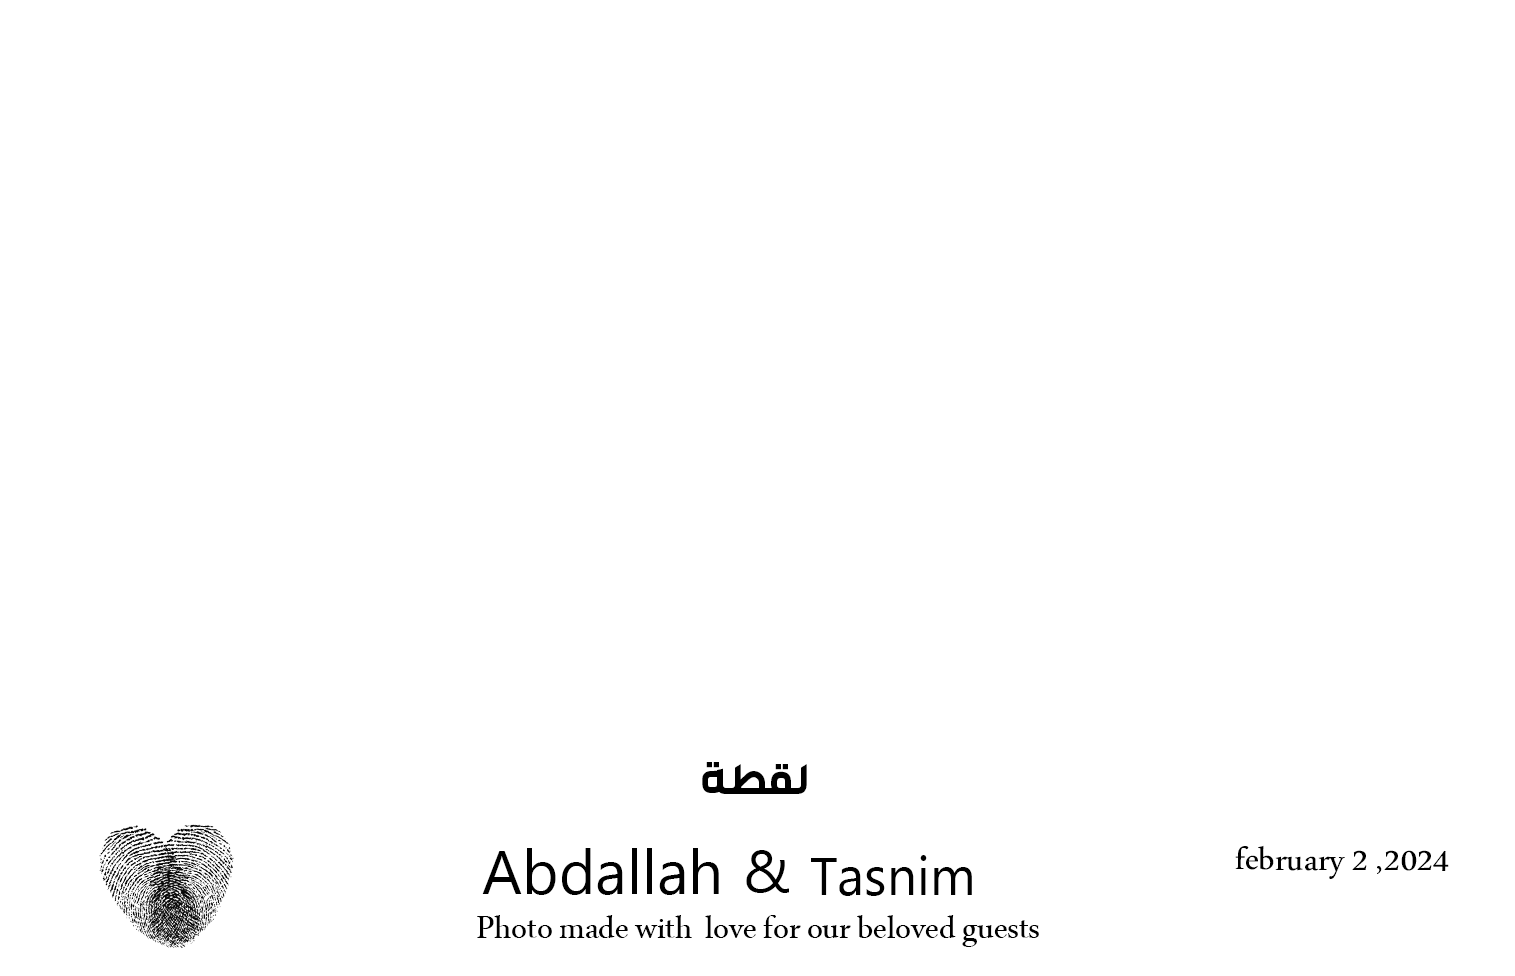
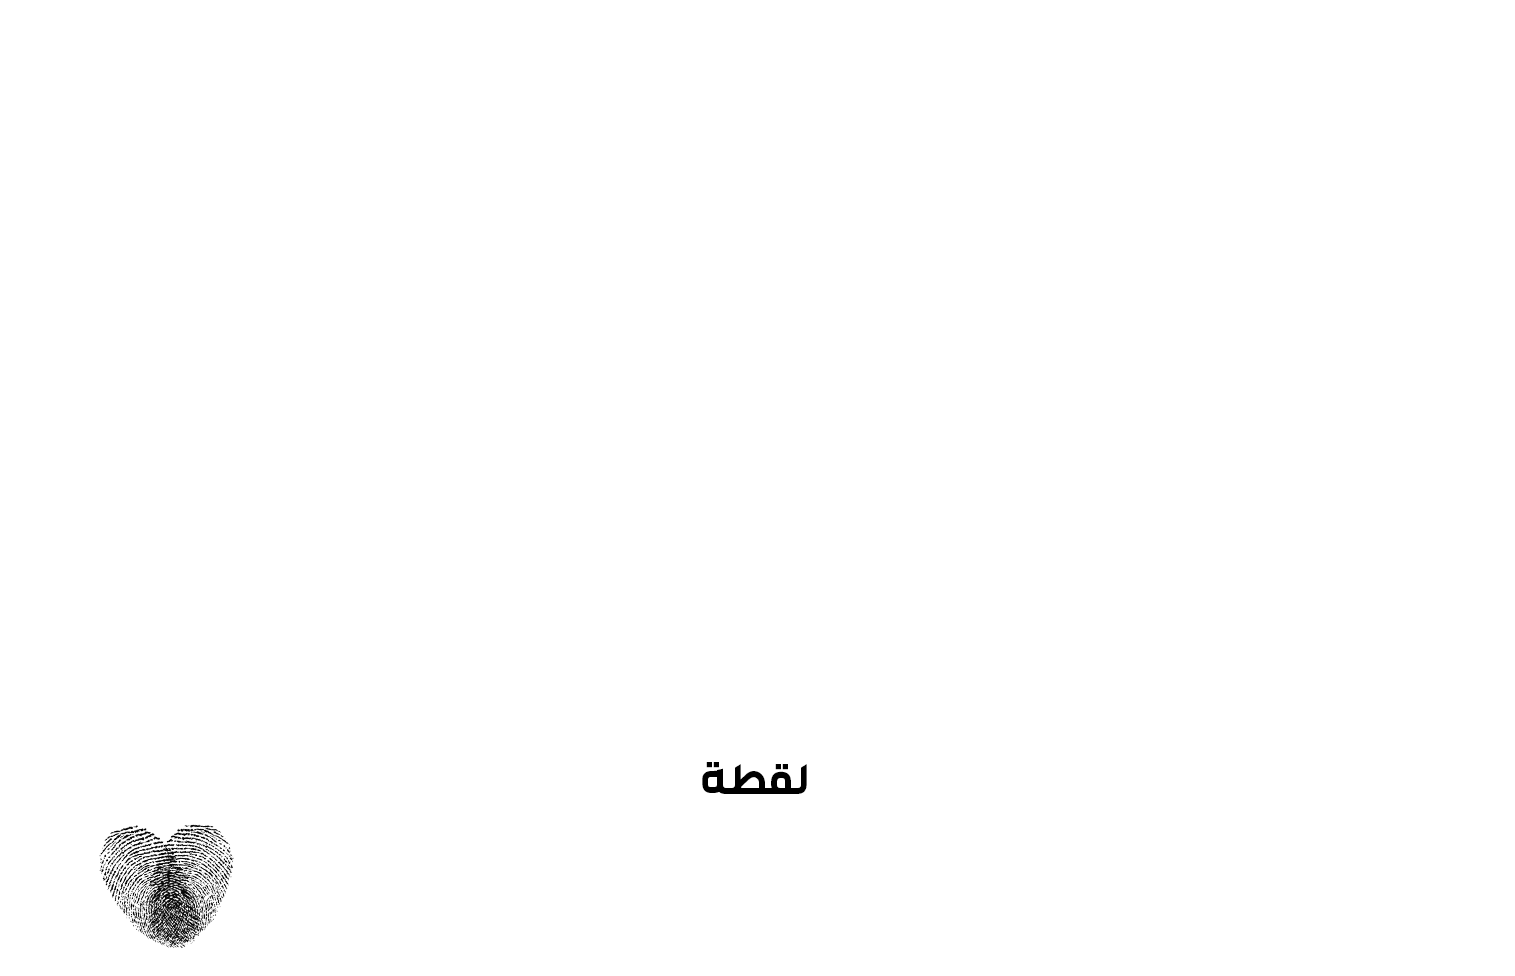
remove photo details and overaly wedding info on image

diff --git a/src/components/Preview.tsx b/src/components/Preview.tsx
@@ -108,11 +108,11 @@ const Preview = ({
       
       // Set styles for qrCodeWrapper
       qrCodeWrapper.style.position = "absolute";
-      qrCodeWrapper.style.bottom = "-17%";
-      qrCodeWrapper.style.left = "2%";
-      qrCodeWrapper.style.width = "80px";
-      qrCodeWrapper.style.height = "80px";
-      
+      qrCodeWrapper.style.marginLeft = "auto";
+      qrCodeWrapper.style.marginRight = "auto";
+      qrCodeWrapper.style.left = "0";
+      qrCodeWrapper.style.right = "55%";
+      qrCodeWrapper.style.bottom = "1%";
       printContent.appendChild(qrCodeWrapper);
     }
     
@@ -125,7 +125,7 @@ const Preview = ({
       <title>Print Image</title>
       <style>
         @page {
-          size: A5 landscape;
+          size: 210mm 120mm; 
           margin: 0;
         }
         body {
@@ -157,9 +157,18 @@ const Preview = ({
         .wedDate {
           position: absolute;
           right: 2%;
-          bottom: 1%;
+          bottom: 0%;
           font-size: 1.5rem;
           font-weight: bold;
+        }
+        .names {
+          position: absolute;
+          margin-left: auto;
+          margin-right: auto;
+          left: 0;
+          right: 0;
+          bottom:8%;
+          text-align: center;
         }
         .overlay p {
           margin: 0;
@@ -167,6 +176,15 @@ const Preview = ({
           font-size: 1rem;
           font-family: 'Noto Sans Arabic', sans-serif;
           font-weight: 300;
+        }
+        .userText{
+          position: absolute;
+          margin-left: auto;
+          margin-right: auto;
+          left: 0;
+          right: 0;
+          bottom:2%;
+          text-align: center;
         }
       </style>
     </head>
@@ -177,10 +195,10 @@ const Preview = ({
 
       </div>
       <div class="wedDate">
-        <p style="font-size:1.2rem">${new Date().toLocaleDateString()}</p>
+        <p style="font-size:1rem">${new Date().toLocaleDateString()}</p>
       </div>
       ${husbandName && wifeName ? `
-        <div class="center">
+        <div class="center names">
           <p style="font-size:1.2rem; font-family: 'Montserrat', sans-serif; font-weight:500;">
             ${husbandName} & ${wifeName}
           </p>
